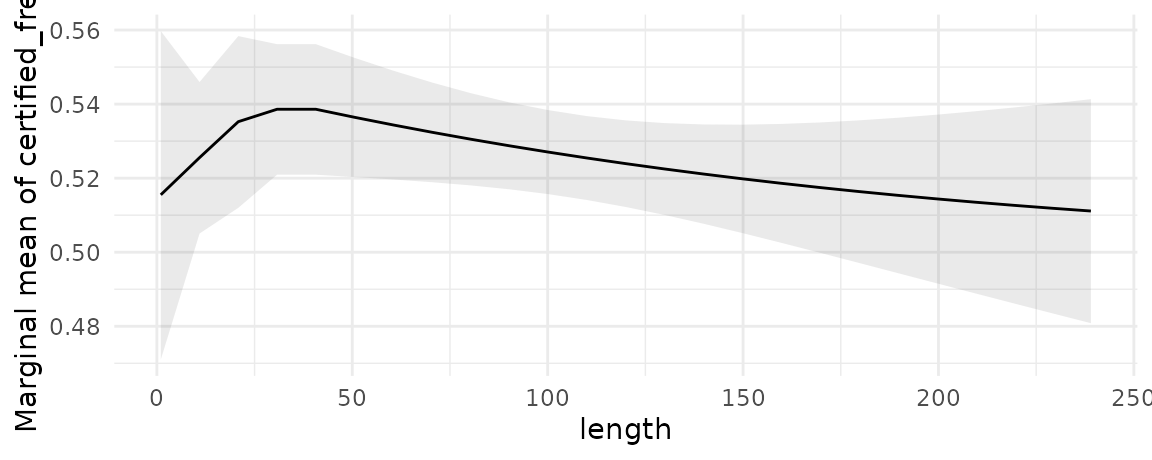
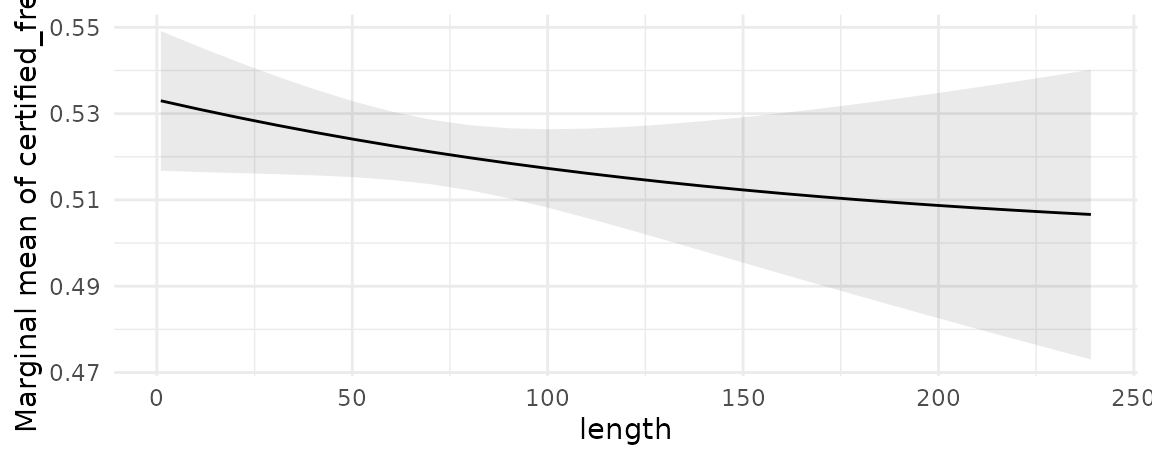
Built site for marginaleffects: 0.0.0.9000@5c1f489

diff --git a/articles/marginalmeans.html b/articles/marginalmeans.html
@@ -265,15 +265,18 @@ hp
            certified_fresh <span class="op">=</span> <span class="va">rating</span> <span class="op">&gt;=</span> <span class="fl">8</span><span class="op">)</span> |&gt;
     <span class="fu"><a href="https://rdrr.io/r/stats/filter.html">filter</a></span><span class="op">(</span><span class="va">length</span> <span class="op">&lt;</span> <span class="fl">240</span><span class="op">)</span>
 
-<span class="va">mod</span> <span class="op">&lt;-</span> <span class="fu"><a href="https://rdrr.io/r/stats/glm.html">glm</a></span><span class="op">(</span><span class="va">certified_fresh</span> <span class="op">~</span> <span class="va">length</span> <span class="op">*</span> <span class="va">style</span>, data <span class="op">=</span> <span class="va">dat</span>, family <span class="op">=</span> <span class="va">binomial</span><span class="op">)</span>
-<span class="va">mod</span> <span class="op">&lt;-</span> <span class="fu"><a href="https://rdrr.io/r/stats/glm.html">glm</a></span><span class="op">(</span><span class="va">certified_fresh</span> <span class="op">~</span> <span class="va">length</span> <span class="op">+</span> <span class="va">style</span>, data <span class="op">=</span> <span class="va">dat</span>, family <span class="op">=</span> <span class="va">binomial</span><span class="op">)</span></code></pre></div>
+<span class="va">mod</span> <span class="op">&lt;-</span> <span class="fu"><a href="https://rdrr.io/r/stats/glm.html">glm</a></span><span class="op">(</span><span class="va">certified_fresh</span> <span class="op">~</span> <span class="va">length</span> <span class="op">*</span> <span class="va">style</span>, data <span class="op">=</span> <span class="va">dat</span>, family <span class="op">=</span> <span class="va">binomial</span><span class="op">)</span></code></pre></div>
 <p>We can plot the marginal means of the response, conditional on the <code>length</code> variable using the <code>plot_cmm</code> function:</p>
 <div class="sourceCode" id="cb7"><pre class="downlit sourceCode r">
-<code class="sourceCode R"><span class="fu"><a href="../reference/plot_cmm.html">plot_cmm</a></span><span class="op">(</span><span class="va">mod</span>, condition <span class="op">=</span> <span class="st">"length"</span><span class="op">)</span></code></pre></div>
+<code class="sourceCode R"><span class="va">mod</span> <span class="op">&lt;-</span> <span class="fu"><a href="https://rdrr.io/r/stats/glm.html">glm</a></span><span class="op">(</span><span class="va">certified_fresh</span> <span class="op">~</span> <span class="va">length</span>, data <span class="op">=</span> <span class="va">dat</span>, family <span class="op">=</span> <span class="va">binomial</span><span class="op">)</span>
+
+<span class="fu"><a href="../reference/plot_cmm.html">plot_cmm</a></span><span class="op">(</span><span class="va">mod</span>, condition <span class="op">=</span> <span class="st">"length"</span><span class="op">)</span></code></pre></div>
 <p><img src="marginalmeans_files/figure-html/unnamed-chunk-8-1.png" width="576"></p>
-<p>We can also introduce another condition which will display a categorical variable like <code>style</code> in different colors:</p>
+<p>We can also introduce another condition which will display a categorical variable like <code>style</code> in different colors. This can be useful in models with interactions:</p>
 <div class="sourceCode" id="cb8"><pre class="downlit sourceCode r">
-<code class="sourceCode R"><span class="fu"><a href="../reference/plot_cmm.html">plot_cmm</a></span><span class="op">(</span><span class="va">mod</span>, condition <span class="op">=</span> <span class="fu"><a href="https://rdrr.io/r/base/c.html">c</a></span><span class="op">(</span><span class="st">"length"</span>, <span class="st">"style"</span><span class="op">)</span><span class="op">)</span></code></pre></div>
+<code class="sourceCode R"><span class="va">mod</span> <span class="op">&lt;-</span> <span class="fu"><a href="https://rdrr.io/r/stats/glm.html">glm</a></span><span class="op">(</span><span class="va">certified_fresh</span> <span class="op">~</span> <span class="va">length</span> <span class="op">*</span> <span class="va">style</span>, data <span class="op">=</span> <span class="va">dat</span>, family <span class="op">=</span> <span class="va">binomial</span><span class="op">)</span>
+
+<span class="fu"><a href="../reference/plot_cmm.html">plot_cmm</a></span><span class="op">(</span><span class="va">mod</span>, condition <span class="op">=</span> <span class="fu"><a href="https://rdrr.io/r/base/c.html">c</a></span><span class="op">(</span><span class="st">"length"</span>, <span class="st">"style"</span><span class="op">)</span><span class="op">)</span></code></pre></div>
 <p><img src="marginalmeans_files/figure-html/unnamed-chunk-9-1.png" width="576"></p>
 </div>
 <div id="prediction-types" class="section level1">

diff --git a/articles/mfx.html b/articles/mfx.html
@@ -254,11 +254,11 @@
     <span class="fu"><a href="https://dplyr.tidyverse.org/reference/mutate.html">mutate</a></span><span class="op">(</span>truth <span class="op">=</span> <span class="fl">1</span> <span class="op">+</span> <span class="fl">4</span> <span class="op">*</span> <span class="va">x</span><span class="op">)</span>  |&gt;
     <span class="fu"><a href="https://dplyr.tidyverse.org/reference/select.html">select</a></span><span class="op">(</span><span class="va">dydx</span>, <span class="va">truth</span><span class="op">)</span>
 <span class="co">#&gt;        dydx truth</span>
-<span class="co">#&gt; 1 -6.998702    -7</span>
-<span class="co">#&gt; 2 -2.998267    -3</span>
-<span class="co">#&gt; 3  1.002168     1</span>
-<span class="co">#&gt; 4  5.002603     5</span>
-<span class="co">#&gt; 5  9.003038     9</span></code></pre></div>
+<span class="co">#&gt; 1 -6.999482    -7</span>
+<span class="co">#&gt; 2 -2.998736    -3</span>
+<span class="co">#&gt; 3  1.002011     1</span>
+<span class="co">#&gt; 4  5.002757     5</span>
+<span class="co">#&gt; 5  9.003503     9</span></code></pre></div>
 <p>We can also plot the result with the <code>plot_cme</code> function (see section below):</p>
 <div class="sourceCode" id="cb12"><pre class="downlit sourceCode r">
 <code class="sourceCode R"><span class="fu"><a href="../reference/plot_cme.html">plot_cme</a></span><span class="op">(</span><span class="va">mod</span>, effect <span class="op">=</span> <span class="st">"x"</span>, condition <span class="op">=</span> <span class="st">"x"</span><span class="op">)</span></code></pre></div>
